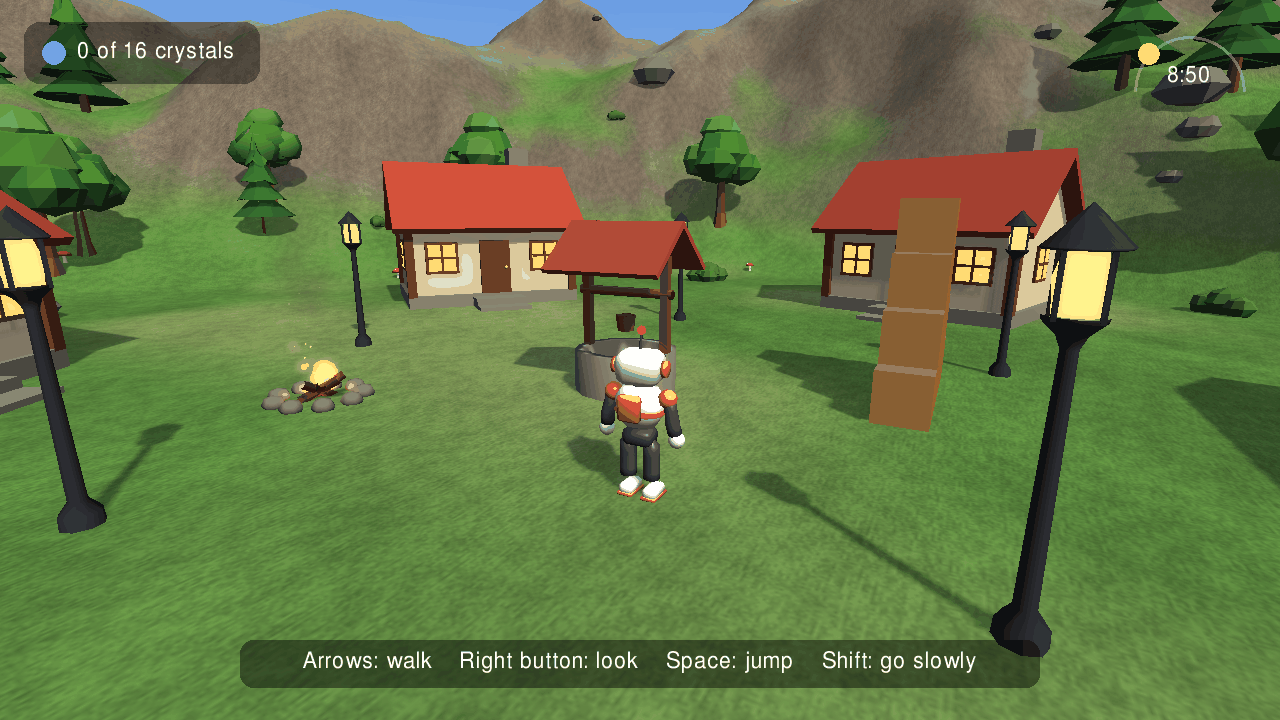
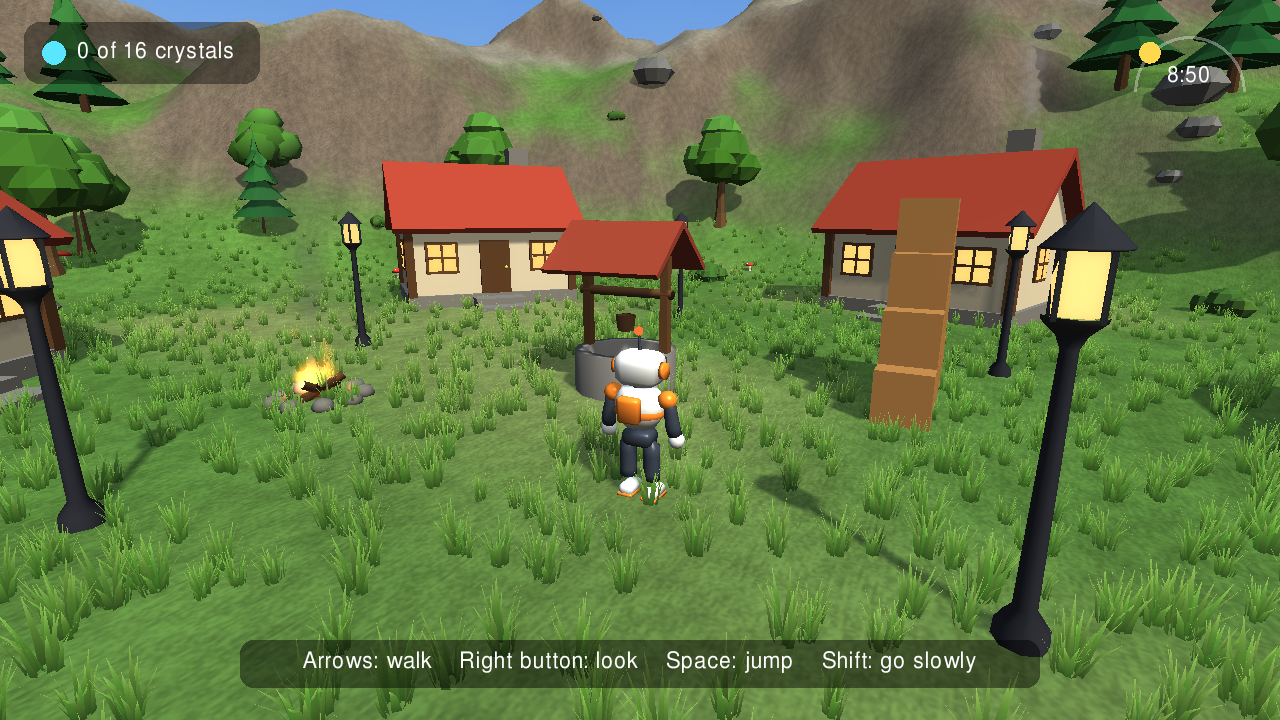
Grass, impostors and sprites

diff --git a/demos.html b/demos.html
@@ -6378,7 +6378,7 @@ summary { cursor: pointer; padding: 10px 16px; } details pre { border-width: 1px
 <section id="3d" data-title="3d"><h2>3D</h2>
 <div data-find="island a world to walk about in, from day to night explore"><h3 id="demo-explore">Island</h3><p>A world to walk about in, from day to night</p>
 <div class="shots"><img loading="lazy" src="screenshots/explore.png" alt="Island"></div>
-<details><summary><code>explore/main.as</code> <span class="tag">428 lines</span></summary><pre><code><span class="c">// A world to walk about in: land, water, trees, houses, a day that passes, and someone to be.</span>
+<details><summary><code>explore/main.as</code> <span class="tag">429 lines</span></summary><pre><code><span class="c">// A world to walk about in: land, water, trees, houses, a day that passes, and someone to be.</span>
 
 <span class="t">Sound</span>@ chime = <span class="t">Assets</span>::sound(<span class="s">&quot;global:sound/coin.wav&quot;</span>);
 <span class="k">int</span> found = <span class="n">0</span>;
@@ -6484,6 +6484,10 @@ summary { cursor: pointer; padding: 10px 16px; } details pre { border-width: 1px
         <span class="t">Space</span>::flatten(<span class="n">0</span>, <span class="n">0</span>, <span class="n">44</span>, <span class="n">3</span>);
         <span class="t">Space</span>::farthest(<span class="n">320</span>);
         <span class="t">Space</span>::shadows(<span class="n">0.65f</span>, <span class="n">32</span>);
+        <span class="c">// Grass near the camera, and far trees as pictures of themselves. Less of both where there is less memory.</span>
+        <span class="k">bool</span> small = <span class="t">App</span>::platform == <span class="s">&quot;Original Xbox&quot;</span>;
+        <span class="t">Space</span>::grass(grass, small ? <span class="n">0.6f</span> : <span class="n">2.5f</span>, small ? <span class="n">16</span> : <span class="n">38</span>);
+        <span class="t">Space</span>::impostors = small ? <span class="n">45</span> : <span class="n">70</span>;
 
         <span class="c">// A village, round a well.</span>
         <span class="k">float</span> y = <span class="t">Space</span>::height(<span class="n">0</span>, <span class="n">0</span>);
@@ -6549,6 +6553,7 @@ summary { cursor: pointer; padding: 10px 16px; } details pre { border-width: 1px
                 <span class="k">bool</span> high = p.y &gt; <span class="n">7</span> + random(-<span class="n">2</span>, <span class="n">2</span>);
                 <span class="t">Entity</span>@ tree = place(trees[high ? <span class="n">0</span> : <span class="n">1</span>], p, random(<span class="n">0</span>, <span class="n">360</span>), random(<span class="n">0.8f</span>, <span class="n">1.5f</span>));
                 tree.sway = <span class="n">0.02f</span>;
+                tree.impostor = <span class="k">true</span>;
                 tree.capsule(<span class="n">0.3f</span>, <span class="n">4</span>, <span class="n">2</span>);
                 tree.colliderAt = <span class="t">Vec3</span>(<span class="n">0</span>, <span class="n">2</span>, <span class="n">0</span>);
                 tree.wall = <span class="k">true</span>;
@@ -6562,10 +6567,6 @@ summary { cursor: pointer; padding: 10px 16px; } details pre { border-width: 1px
                 stone.colliderAt = <span class="t">Vec3</span>(<span class="n">0</span>, <span class="n">0.2f</span>, <span class="n">0</span>);
                 stone.wall = <span class="k">true</span>;
             }
-            <span class="c">// Grass, more of it near the village.</span>
-            <span class="k">for</span> (<span class="k">int</span> g = <span class="n">0</span>; g &lt; <span class="n">3</span>; g++)
-                <span class="k">if</span> (spot(p, <span class="n">0.6f</span>, <span class="n">12</span>, <span class="n">0.8f</span>, <span class="n">6</span>, g == <span class="n">0</span> ? <span class="n">130</span> : <span class="n">45</span>))
-                    place(grass, p, random(<span class="n">0</span>, <span class="n">360</span>), random(<span class="n">0.8f</span>, <span class="n">1.6f</span>)).sway = <span class="n">0.15f</span>;
             <span class="k">if</span> (i % <span class="n">5</span> == <span class="n">0</span> &amp;&amp; spot(p, <span class="n">1</span>, <span class="n">12</span>, <span class="n">0.85f</span>, <span class="n">18</span>))
                 place(mushroom, p, random(<span class="n">0</span>, <span class="n">360</span>), random(<span class="n">0.5f</span>, <span class="n">1.1f</span>));
             <span class="k">if</span> (i % <span class="n">12</span> == <span class="n">0</span> &amp;&amp; spot(p, <span class="n">1</span>, <span class="n">12</span>, <span class="n">0.8f</span>, <span class="n">10</span>))
@@ -7369,7 +7370,7 @@ summary { cursor: pointer; padding: 10px 16px; } details pre { border-width: 1px
 </code></pre></details></div>
 <div data-find="forest two thousand trees: culling and levels of detail forest"><h3 id="demo-forest">Forest</h3><p>Two thousand trees: culling and levels of detail</p>
 <div class="shots"><img loading="lazy" src="screenshots/forest.png" alt="Forest"></div>
-<details><summary><code>forest/main.as</code> <span class="tag">72 lines</span></summary><pre><code><span class="c">// Two thousand trees. What can&#x27;t be seen isn&#x27;t drawn, and what is far away is drawn more simply.</span>
+<details><summary><code>forest/main.as</code> <span class="tag">75 lines</span></summary><pre><code><span class="c">// Two thousand trees. What can&#x27;t be seen isn&#x27;t drawn, and what is far away is drawn more simply.</span>
 
 <span class="k">class</span> <span class="t">ForestScreen</span> : <span class="t">Screen</span>
 {
@@ -7394,6 +7395,7 @@ summary { cursor: pointer; padding: 10px 16px; } details pre { border-width: 1px
             <span class="t">Entity</span>@ e = <span class="t">Space</span>::spawn(<span class="t">Vec3</span>(x, <span class="t">Space</span>::height(x, z), z));
             e.model(random(<span class="n">0</span>, <span class="n">1</span>) &lt; <span class="n">0.65f</span> ? pine : oak);
             e.sway = <span class="n">0.02f</span>;
+            e.impostor = <span class="k">true</span>;
             <span class="k">float</span> size = random(<span class="n">0.8f</span>, <span class="n">1.7f</span>);
             e.size = <span class="t">Vec3</span>(size, size * random(<span class="n">0.9f</span>, <span class="n">1.2f</span>), size);
             e.angles = <span class="t">Vec3</span>(<span class="n">0</span>, random(<span class="n">0</span>, <span class="n">360</span>), <span class="n">0</span>);
@@ -7403,6 +7405,8 @@ summary { cursor: pointer; padding: 10px 16px; } details pre { border-width: 1px
         <span class="t">Space</span>::sun(<span class="t">Vec3</span>(<span class="n">0.6f</span>, <span class="n">0.6f</span>, <span class="n">0.4f</span>), <span class="t">Color</span>(<span class="n">1</span>, <span class="n">0.93f</span>, <span class="n">0.78f</span>));
         <span class="t">Space</span>::farthest(<span class="n">200</span>);
         <span class="t">Space</span>::shadows(<span class="n">0.6f</span>, <span class="n">40</span>);
+        <span class="c">// Far trees are pictures of themselves: the same look, at a small part of the cost.</span>
+        <span class="t">Space</span>::impostors = <span class="n">70</span>;
     }
 
     <span class="k">void</span> update(<span class="k">float</span> dt)
@@ -7919,7 +7923,7 @@ summary { cursor: pointer; padding: 10px 16px; } details pre { border-width: 1px
 </code></pre></details></div>
 <div data-find="scene editor build a place, try it and keep it editor"><h3 id="demo-editor">Scene editor</h3><p>Build a place, try it and keep it</p>
 <div class="shots"><img loading="lazy" src="screenshots/editor.png" alt="Scene editor"></div>
-<details><summary><code>editor/main.as</code> <span class="tag">3159 lines</span></summary><pre><code>#include <span class="s">&quot;global:scene.as&quot;</span>
+<details><summary><code>editor/main.as</code> <span class="tag">3178 lines</span></summary><pre><code>#include <span class="s">&quot;global:scene.as&quot;</span>
 
 <span class="c">// A scene editor, written as any screen is. What it makes is a file that Space::load reads.</span>
 
@@ -8285,6 +8289,8 @@ summary { cursor: pointer; padding: 10px 16px; } details pre { border-width: 1px
             c.height = <span class="n">22</span>;
             c.grow = <span class="n">1</span>;
         }
+        earth.label(<span class="s">&quot;Grass&quot;</span>, <span class="s">&quot;small&quot;</span>);
+        @grassChoice = earth.choice(grassNames, <span class="n">0</span>, <span class="t">WidgetEvent</span>(<span class="k">this</span>.onGrass));
         earth.button(<span class="s">&quot;As it was made&quot;</span>, <span class="t">WidgetEvent</span>(<span class="k">this</span>.onLandFresh));
         earth.paragraph(<span class="s">&quot;Hold on the land to change it.&quot;</span>, <span class="s">&quot;small&quot;</span>);
 
@@ -8724,6 +8730,13 @@ summary { cursor: pointer; padding: 10px 16px; } details pre { border-width: 1px
     }
     <span class="k">void</span> onWay(<span class="t">Widget</span>@ w) { way = (way + <span class="n">1</span>) % <span class="k">int</span>(ways.length()); w.text = ways[<span class="k">uint</span>(way)]; }
     <span class="k">void</span> onAcross(<span class="t">Widget</span>@ w) { across = w.chosen; landText = <span class="s">&quot;&quot;</span>; land(); place(); changed(<span class="s">&quot;across&quot;</span>); }
+    <span class="c">// How thick the grass grows where the land is green.</span>
+    <span class="t">Widget</span>@ grassChoice;
+    <span class="k">array</span>&lt;<span class="k">string</span>&gt; grassNames = { <span class="s">&quot;No grass&quot;</span>, <span class="s">&quot;Some grass&quot;</span>, <span class="s">&quot;Grass&quot;</span>, <span class="s">&quot;Thick grass&quot;</span> };
+    <span class="k">array</span>&lt;<span class="k">float</span>&gt; grassAmounts = { <span class="n">0</span>, <span class="n">1</span>, <span class="n">2.5f</span>, <span class="n">4.5f</span> };
+    <span class="k">int</span> grassAt = <span class="n">0</span>;
+    <span class="k">void</span> onGrass(<span class="t">Widget</span>@ w) { grassAt = w.chosen; made = -<span class="n">1</span>; land(); changed(<span class="s">&quot;grass&quot;</span>); }
+
     <span class="k">void</span> onEdges(<span class="t">Widget</span>@ w) { edges = w.checked; <span class="t">Space</span>::edges = edges; changed(<span class="s">&quot;edges&quot;</span>); }
     <span class="k">void</span> onGround(<span class="t">Widget</span>@ w) { ground = w.chosen; acrossChoice.enabled = ground != <span class="n">3</span>; land(); place(); changed(<span class="s">&quot;ground&quot;</span>); }
     <span class="k">void</span> onLines(<span class="t">Widget</span>@ w) { <span class="t">Space</span>::lines = w.checked; }
@@ -9042,6 +9055,8 @@ summary { cursor: pointer; padding: 10px 16px; } details pre { border-width: 1px
         all.<span class="k">set</span>(<span class="s">&quot;hour&quot;</span>, hour);
         all.<span class="k">set</span>(<span class="s">&quot;across&quot;</span>, across);
         all.<span class="k">set</span>(<span class="s">&quot;edges&quot;</span>, edges);
+        <span class="k">if</span> (grassAt &gt; <span class="n">0</span>)
+            all.<span class="k">set</span>(<span class="s">&quot;grass&quot;</span>, grassAmounts[<span class="k">uint</span>(grassAt)]);
         <span class="k">if</span> (sky.count &gt; <span class="n">0</span>)
             all.<span class="k">set</span>(<span class="s">&quot;sky&quot;</span>, sky);
         <span class="k">if</span> (roads.length() &gt; <span class="n">0</span>)
@@ -9081,6 +9096,11 @@ summary { cursor: pointer; padding: 10px 16px; } details pre { border-width: 1px
         hour = <span class="k">int</span>(clamp(<span class="k">float</span>(all[<span class="s">&quot;hour&quot;</span>].number()), <span class="n">0</span>, <span class="n">2</span>));
         across = <span class="k">int</span>(clamp(<span class="k">float</span>(all[<span class="s">&quot;across&quot;</span>].number(<span class="n">1</span>)), <span class="n">0</span>, <span class="k">float</span>(acrosses.length()) - <span class="n">1</span>));
         edges = all[<span class="s">&quot;edges&quot;</span>].flag(<span class="k">true</span>);
+        grassAt = <span class="n">0</span>;
+        <span class="k">for</span> (<span class="k">uint</span> i = <span class="n">0</span>; i &lt; grassAmounts.length(); i++)
+            <span class="k">if</span> (abs(<span class="k">float</span>(all[<span class="s">&quot;grass&quot;</span>].number()) - grassAmounts[i]) &lt; <span class="n">0.01f</span>)
+                grassAt = <span class="k">int</span>(i);
+        grassChoice.chosen = grassAt;
         <span class="t">Json</span> empty;
         sky.copy(all[<span class="s">&quot;sky&quot;</span>].isNull ? empty : all[<span class="s">&quot;sky&quot;</span>]);
         groundChoice.chosen = ground;
@@ -9839,6 +9859,9 @@ summary { cursor: pointer; padding: 10px 16px; } details pre { border-width: 1px
         <span class="k">float</span> sway = k.name == <span class="s">&quot;oak&quot;</span> || k.name == <span class="s">&quot;pine&quot;</span> ? <span class="n">0.02f</span> : k.name == <span class="s">&quot;bush&quot;</span> ? <span class="n">0.05f</span> : k.name == <span class="s">&quot;grass&quot;</span> ? <span class="n">0.15f</span> : <span class="n">0.0f</span>;
         <span class="k">if</span> (sway &gt; <span class="n">0</span>)
             j.<span class="k">set</span>(<span class="s">&quot;sway&quot;</span>, sway);
+        <span class="c">// Far away, trees are pictures of themselves.</span>
+        <span class="k">if</span> (k.name == <span class="s">&quot;oak&quot;</span> || k.name == <span class="s">&quot;pine&quot;</span>)
+            j.<span class="k">set</span>(<span class="s">&quot;impostor&quot;</span>, <span class="k">true</span>);
         <span class="k">if</span> (k.group == <span class="s">&quot;Roads&quot;</span>)
         {
             <span class="c">// On a grid of 8 metres, the land flat under it; and on from the chosen one, where it is a road too.</span>
@@ -11327,6 +11350,186 @@ summary { cursor: pointer; padding: 10px 16px; } details pre { border-width: 1px
         }
         <span class="k">if</span> (fade &gt; <span class="n">0</span>)
             c.rect(<span class="n">0</span>, <span class="n">0</span>, c.width, <span class="n">720</span>, <span class="t">Color</span>(<span class="n">0</span>, <span class="n">0</span>, <span class="n">0</span>, fade));
+    }
+}
+</code></pre></details></div>
+<div data-find="wisps sprites: pictures that turn to show the side you see them from, in a maze wisps"><h3 id="demo-wisps">Wisps</h3><p>Sprites: pictures that turn to show the side you see them from, in a maze</p>
+<div class="shots"><img loading="lazy" src="screenshots/wisps.png" alt="Wisps"></div>
+<details><summary><code>wisps/main.as</code> <span class="tag">177 lines</span></summary><pre><code><span class="c">// Sprites: each wisp is one picture from a sheet, chosen by which side of it you see and how far its flicker has</span>
+<span class="c">// got. They stand upright and turn to face you, as the characters of old maze games did; the maze is boxes.</span>
+
+<span class="k">class</span> <span class="t">Wisp</span> : <span class="t">Behaviour</span>
+{
+    <span class="k">int</span> cx, cz, tx, tz;       <span class="c">// the square it is in, and the one it is going to</span>
+    <span class="k">float</span> flicker = <span class="n">0</span>;
+    <span class="k">array</span>&lt;<span class="k">string</span>&gt;@ map;
+
+    <span class="k">void</span> start()
+    {
+        flicker = random(<span class="n">0</span>, <span class="n">1</span>);
+        next();
+    }
+
+    <span class="k">bool</span> open(<span class="k">int</span> x, <span class="k">int</span> z) { <span class="k">return</span> z &gt;= <span class="n">0</span> &amp;&amp; z &lt; <span class="k">int</span>(map.length()) &amp;&amp; x &gt;= <span class="n">0</span> &amp;&amp; x &lt; <span class="k">int</span>(map[<span class="k">uint</span>(z)].length()) &amp;&amp; map[<span class="k">uint</span>(z)][<span class="k">uint</span>(x)] != <span class="n">35</span>; }
+
+    <span class="c">// On to an open square beside, not back the way it came unless it has to.</span>
+    <span class="k">void</span> next()
+    {
+        <span class="k">array</span>&lt;<span class="k">int</span>&gt; dx = { <span class="n">1</span>, -<span class="n">1</span>, <span class="n">0</span>, <span class="n">0</span> }, dz = { <span class="n">0</span>, <span class="n">0</span>, <span class="n">1</span>, -<span class="n">1</span> };
+        <span class="k">int</span> backX = cx - (tx - cx), backZ = cz - (tz - cz);
+        <span class="k">array</span>&lt;<span class="k">int</span>&gt; ways;
+        <span class="k">for</span> (<span class="k">int</span> i = <span class="n">0</span>; i &lt; <span class="n">4</span>; i++)
+            <span class="k">if</span> (open(cx + dx[<span class="k">uint</span>(i)], cz + dz[<span class="k">uint</span>(i)]) &amp;&amp; !(cx + dx[<span class="k">uint</span>(i)] == backX &amp;&amp; cz + dz[<span class="k">uint</span>(i)] == backZ))
+                ways.insertLast(i);
+        <span class="k">if</span> (ways.length() == <span class="n">0</span>)
+        {
+            tx = backX;
+            tz = backZ;
+            <span class="k">return</span>;
+        }
+        <span class="k">int</span> w = ways[<span class="k">uint</span>(random(<span class="n">0</span>, <span class="k">float</span>(ways.length()) - <span class="n">0.01f</span>))];
+        tx = cx + dx[<span class="k">uint</span>(w)];
+        tz = cz + dz[<span class="k">uint</span>(w)];
+    }
+
+    <span class="k">void</span> update(<span class="k">float</span> dt)
+    {
+        flicker += dt * <span class="n">5</span>;
+        entity.spriteFrame = <span class="k">uint</span>(flicker) % <span class="n">2</span>;
+        <span class="t">Vec3</span> to = <span class="t">Vec3</span>(tx * <span class="n">4</span>, <span class="n">1</span>, tz * <span class="n">4</span>) - entity.place;
+        to.y = <span class="n">0</span>;
+        <span class="k">float</span> far = to.length();
+        <span class="k">if</span> (far &lt; <span class="n">0.05f</span>)
+        {
+            cx = tx;
+            cz = tz;
+            next();
+            <span class="k">return</span>;
+        }
+        entity.face(to, clamp(dt * <span class="n">6</span>, <span class="n">0</span>, <span class="n">1</span>));
+        entity.place = entity.place + to * (clamp(dt * <span class="n">1.8f</span> / far, <span class="n">0</span>, <span class="n">1</span>));
+        entity.place = <span class="t">Vec3</span>(entity.place.x, <span class="n">0.9f</span> + sin(flicker * <span class="n">0.7f</span>) * <span class="n">0.12f</span>, entity.place.z);
+    }
+}
+
+<span class="k">class</span> <span class="t">WispsScreen</span> : <span class="t">Screen</span>
+{
+    <span class="t">Font</span>@ font = <span class="t">Assets</span>::font(<span class="s">&quot;global:freesans.sfn&quot;</span>, <span class="n">22</span>);
+    <span class="t">Texture</span>@ sheet = <span class="t">Assets</span>::texture(<span class="s">&quot;global:picture/sprite-wisp.png&quot;</span>);
+    <span class="t">Texture</span>@ bricks = <span class="t">Assets</span>::texture(<span class="s">&quot;global:picture/bricks.png&quot;</span>);
+    <span class="t">Texture</span>@ tiles = <span class="t">Assets</span>::texture(<span class="s">&quot;global:picture/tiles.png&quot;</span>);
+    <span class="k">array</span>&lt;<span class="k">string</span>&gt; map = {
+        <span class="s">&quot;###########&quot;</span>,
+        <span class="s">&quot;#....#....#&quot;</span>,
+        <span class="s">&quot;#.##.#.##.#&quot;</span>,
+        <span class="s">&quot;#.#.....#.#&quot;</span>,
+        <span class="s">&quot;#.#.###.#.#&quot;</span>,
+        <span class="s">&quot;#...#.#...#&quot;</span>,
+        <span class="s">&quot;###.#.#.###&quot;</span>,
+        <span class="s">&quot;#.........#&quot;</span>,
+        <span class="s">&quot;#.##.#.##.#&quot;</span>,
+        <span class="s">&quot;#....#....#&quot;</span>,
+        <span class="s">&quot;###########&quot;</span> };
+    <span class="t">Entity</span>@ hero;
+    <span class="k">float</span> yaw = <span class="n">0</span>, pitch = <span class="n">0</span>, shown = <span class="n">0</span>;
+
+    <span class="k">void</span> onEnter()
+    {
+        <span class="t">Space</span>::ground(<span class="n">0</span>);
+        <span class="t">Space</span>::sky(<span class="t">Color</span>(<span class="n">0.02f</span>, <span class="n">0.02f</span>, <span class="n">0.05f</span>), <span class="t">Color</span>(<span class="n">0.05f</span>, <span class="n">0.05f</span>, <span class="n">0.1f</span>));
+        <span class="t">Space</span>::fog(<span class="t">Color</span>(<span class="n">0.03f</span>, <span class="n">0.03f</span>, <span class="n">0.07f</span>), <span class="n">6</span>, <span class="n">34</span>);
+        <span class="t">Space</span>::sun(<span class="t">Vec3</span>(<span class="n">0.3f</span>, <span class="n">1</span>, <span class="n">0.2f</span>), <span class="t">Color</span>(<span class="n">0.15f</span>, <span class="n">0.15f</span>, <span class="n">0.25f</span>));
+        <span class="t">Space</span>::ambient(<span class="t">Color</span>(<span class="n">0.12f</span>, <span class="n">0.12f</span>, <span class="n">0.2f</span>), <span class="t">Color</span>(<span class="n">0.05f</span>, <span class="n">0.05f</span>, <span class="n">0.08f</span>));
+        <span class="t">Space</span>::farthest(<span class="n">40</span>);
+        <span class="k">int</span> wisps = <span class="n">0</span>;
+        <span class="k">for</span> (<span class="k">uint</span> z = <span class="n">0</span>; z &lt; map.length(); z++)
+            <span class="k">for</span> (<span class="k">uint</span> x = <span class="n">0</span>; x &lt; map[z].length(); x++)
+            {
+                <span class="t">Vec3</span> at(<span class="k">float</span>(x) * <span class="n">4</span>, <span class="n">0</span>, <span class="k">float</span>(z) * <span class="n">4</span>);
+                <span class="t">Entity</span>@ floor = <span class="t">Space</span>::spawn(at - <span class="t">Vec3</span>(<span class="n">0</span>, <span class="n">0.1f</span>, <span class="n">0</span>));
+                floor.shape(<span class="t">SolidBox</span>);
+                floor.size = <span class="t">Vec3</span>(<span class="n">4</span>, <span class="n">0.2f</span>, <span class="n">4</span>);
+                floor.skin(tiles);
+                <span class="k">if</span> (map[z][x] == <span class="n">35</span>)
+                {
+                    <span class="t">Entity</span>@ wall = <span class="t">Space</span>::spawn(at + <span class="t">Vec3</span>(<span class="n">0</span>, <span class="n">1.75f</span>, <span class="n">0</span>));
+                    wall.shape(<span class="t">SolidBox</span>);
+                    wall.size = <span class="t">Vec3</span>(<span class="n">4</span>, <span class="n">3.5f</span>, <span class="n">4</span>);
+                    wall.skin(bricks);
+                    wall.cube(<span class="t">Vec3</span>(<span class="n">1</span>, <span class="n">1</span>, <span class="n">1</span>), <span class="n">2</span>);
+                    wall.wall = <span class="k">true</span>;
+                }
+                <span class="k">else</span> <span class="k">if</span> ((x + z * <span class="n">3</span>) % <span class="n">7</span> == <span class="n">0</span> &amp;&amp; wisps &lt; <span class="n">9</span>)
+                {
+                    wisps++;
+                    <span class="t">Entity</span>@ e = <span class="t">Space</span>::spawn(at + <span class="t">Vec3</span>(<span class="n">0</span>, <span class="n">0.9f</span>, <span class="n">0</span>));
+                    e.sprite(sheet, <span class="n">4</span>, <span class="n">2</span>);
+                    e.size = <span class="t">Vec3</span>(<span class="n">1.3f</span>, <span class="n">1.3f</span>, <span class="n">1.3f</span>);
+                    e.glowing = <span class="n">1</span>;
+                    e.light(<span class="t">Color</span>(<span class="n">0.5f</span>, <span class="n">0.7f</span>, <span class="n">1.4f</span>), <span class="n">6</span>);
+                    <span class="t">Wisp</span> w;
+                    w.cx = w.tx = <span class="k">int</span>(x);
+                    w.cz = w.tz = <span class="k">int</span>(z);
+                    @w.map = map;
+                    e.add(w);
+                }
+            }
+        @hero = <span class="t">Space</span>::spawn(<span class="t">Vec3</span>(<span class="n">4</span>, <span class="n">0.1f</span>, <span class="n">4</span>));
+        hero.capsule(<span class="n">0.35f</span>, <span class="n">1.6f</span>, <span class="n">1</span>);
+        hero.colliderAt = <span class="t">Vec3</span>(<span class="n">0</span>, <span class="n">0.8f</span>, <span class="n">0</span>);
+        hero.walker = <span class="k">true</span>;
+        hero.mass = <span class="n">60</span>;
+        yaw = <span class="n">180</span>;
+    }
+
+    <span class="k">void</span> onExit()
+    {
+        <span class="t">Input</span>::lockMouse(<span class="k">false</span>);
+    }
+
+    <span class="k">void</span> update(<span class="k">float</span> dt)
+    {
+        shown += dt;
+        <span class="c">// Look with the mouse, held in the window, or the right stick; walk with the left.</span>
+        <span class="t">Input</span>::lockMouse(<span class="k">true</span>);
+        <span class="t">Vec2</span> turn = <span class="t">Input</span>::mouseMove;
+        <span class="k">if</span> (shown &gt; <span class="n">0.3f</span>)
+        {
+            yaw += turn.x * <span class="n">0.2f</span>;
+            pitch = clamp(pitch - turn.y * <span class="n">0.2f</span>, -<span class="n">60</span>, <span class="n">60</span>);
+        }
+        <span class="t">Vec2</span> pad = <span class="t">Input</span>::padRight(<span class="n">0</span>);
+        yaw += pad.x * <span class="n">120</span> * dt;
+        pitch = clamp(pitch + pad.y * <span class="n">90</span> * dt, -<span class="n">60</span>, <span class="n">60</span>);
+        <span class="t">Vec2</span> stick = <span class="t">Input</span>::move;
+        <span class="k">float</span> a = yaw * <span class="n">0.0174533f</span>;
+        <span class="t">Vec3</span> ahead(sin(a), <span class="n">0</span>, -cos(a)), side(cos(a), <span class="n">0</span>, sin(a));
+        <span class="c">// Left and right turn, as in the old games, unless the mouse is there to look with.</span>
+        <span class="k">if</span> (!<span class="t">Input</span>::hasMouse)
+            yaw += stick.x * <span class="n">110</span> * dt;
+        <span class="t">Vec3</span> wanted = (ahead * -stick.y + (<span class="t">Input</span>::hasMouse ? side * stick.x : <span class="t">Vec3</span>())) * <span class="n">4.5f</span>;
+        <span class="t">Vec3</span> m = hero.motion;
+        m.x += (wanted.x - m.x) * clamp(<span class="n">12</span> * dt, <span class="n">0</span>, <span class="n">1</span>);
+        m.z += (wanted.z - m.z) * clamp(<span class="n">12</span> * dt, <span class="n">0</span>, <span class="n">1</span>);
+        hero.motion = m;
+        <span class="k">float</span> p = pitch * <span class="n">0.0174533f</span>;
+        <span class="t">Vec3</span> eye = hero.place + <span class="t">Vec3</span>(<span class="n">0</span>, <span class="n">1.5f</span>, <span class="n">0</span>);
+        <span class="t">Space</span>::camera(eye, eye + <span class="t">Vec3</span>(sin(a) * cos(p), sin(p), -cos(a) * cos(p)), <span class="n">70</span>);
+    }
+
+    <span class="k">void</span> draw(<span class="t">Canvas</span>@ c)
+    {
+        c.designHeight(<span class="n">720</span>);
+        <span class="t">Space</span>::draw(c);
+        c.bloom(<span class="n">0.6f</span>, <span class="n">0.6f</span>);
+        <span class="k">float</span> help = clamp(<span class="n">6</span> - shown, <span class="n">0</span>, <span class="n">1</span>);
+        <span class="k">if</span> (help &gt; <span class="n">0</span>)
+        {
+            c.alpha = help;
+            c.roundRect(c.width * <span class="n">0.5f</span> - <span class="n">380</span>, <span class="n">640</span>, <span class="n">760</span>, <span class="n">48</span>, <span class="n">14</span>, <span class="t">Color</span>(<span class="n">0</span>, <span class="n">0</span>, <span class="n">0</span>, <span class="n">0.5f</span>));
+            c.text(font, <span class="t">Input</span>::usingPad ? <span class="s">&quot;Left stick: walk    Right stick: look&quot;</span> : <span class="s">&quot;Arrows: walk    Mouse: look&quot;</span>, c.width * <span class="n">0.5f</span>, <span class="n">650</span>, <span class="t">White</span>, <span class="t">AlignCenter</span>);
+            c.alpha = <span class="n">1</span>;
+        }
     }
 }
 </code></pre></details></div>

diff --git a/reference.html b/reference.html
@@ -290,6 +290,9 @@ summary { cursor: pointer; padding: 10px 16px; } details pre { border-width: 1px
 <tr data-find="void glow(float size, const color &amp;in color) looks like a soft ball of light. `light` is what lights other things."><td><code><span class="k">void</span> glow(<span class="k">float</span> size, <span class="k">const</span> <span class="t">Color</span> &amp;<span class="k">in</span> color)</code></td><td>Looks like a soft ball of light. <code>light</code> is what lights other things.</td></tr>
 <tr data-find="void skin(texture@+ texture, bool repeat = false) puts an image on it, instead of any of the model&#x27;s own."><td><code><span class="k">void</span> skin(<span class="t">Texture</span>@+ texture, <span class="k">bool</span> repeat = <span class="k">false</span>)</code></td><td>Puts an image on it, instead of any of the model&#x27;s own.</td></tr>
 <tr data-find="void effect(effect@+ effect) colours it, and may move its corners, with a shader of your own; null for none. where there are no shaders it stays as it is."><td><code><span class="k">void</span> effect(<span class="t">Effect</span>@+ effect)</code></td><td>Colours it, and may move its corners, with a shader of your own; null for none. Where there are no shaders it stays as it is.</td></tr>
+<tr data-find="bool impostor whether, further away than `space::impostors`, it is drawn as a picture of itself. further away than `space::impostors`, drawn as a picture of itself, made from its model: for trees and the like, of which there are many."><td><code><span class="k">bool</span> impostor</code></td><td>Whether, further away than <code>Space::impostors</code>, it is drawn as a picture of itself. Further away than <code>Space::impostors</code>, drawn as a picture of itself, made from its model: for trees and the like, of which there are many.</td></tr>
+<tr data-find="void sprite(texture@+ sheet, uint angles = 1, uint frames = 1) looks like a picture that stands upright and turns to face the camera, as big as its size. across the sheet, how it looks from each side: the first from in front, then going round to its left; down it, the frames. null for none."><td><code><span class="k">void</span> sprite(<span class="t">Texture</span>@+ sheet, <span class="k">uint</span> angles = <span class="n">1</span>, <span class="k">uint</span> frames = <span class="n">1</span>)</code></td><td>Looks like a picture that stands upright and turns to face the camera, as big as its size. Across the sheet, how it looks from each side: the first from in front, then going round to its left; down it, the frames. null for none.</td></tr>
+<tr data-find="uint spriteframe which row of its sprite sheet it shows. which row of its sprite sheet it shows, from 0."><td><code><span class="k">uint</span> spriteFrame</code></td><td>Which row of its sprite sheet it shows. Which row of its sprite sheet it shows, from 0.</td></tr>
 <tr data-find="float sway how far the wind leans it: for each metre of height, at the strongest gust. 0.03 suits a tree, 0.1 grass."><td><code><span class="k">float</span> sway</code></td><td>How far the wind leans it: for each metre of height, at the strongest gust. 0.03 suits a tree, 0.1 grass.</td></tr>
 <tr data-find="float shine how much it shows a highlight from the sun. how much it shows a highlight from the sun, 0 to 1."><td><code><span class="k">float</span> shine</code></td><td>How much it shows a highlight from the sun. How much it shows a highlight from the sun, 0 to 1.</td></tr>
 <tr data-find="float glowing how bright it is by itself. 1 is as bright as its colour, even in the dark."><td><code><span class="k">float</span> glowing</code></td><td>How bright it is by itself. 1 is as bright as its colour, even in the dark.</td></tr>
@@ -341,6 +344,8 @@ summary { cursor: pointer; padding: 10px 16px; } details pre { border-width: 1px
 <tr data-find="void space::ambient(const color &amp;in sky, const color &amp;in ground) light from everywhere: on what faces up, and on what faces down."><td><code><span class="k">void</span> <span class="t">Space</span>::ambient(<span class="k">const</span> <span class="t">Color</span> &amp;<span class="k">in</span> sky, <span class="k">const</span> <span class="t">Color</span> &amp;<span class="k">in</span> ground)</code></td><td>Light from everywhere: on what faces up, and on what faces down.</td></tr>
 <tr data-find="void space::sky(const color &amp;in top, const color &amp;in horizon) draws a sky, with the sun in it. without one, what is on the canvas already is behind."><td><code><span class="k">void</span> <span class="t">Space</span>::sky(<span class="k">const</span> <span class="t">Color</span> &amp;<span class="k">in</span> top, <span class="k">const</span> <span class="t">Color</span> &amp;<span class="k">in</span> horizon)</code></td><td>Draws a sky, with the sun in it. Without one, what is on the canvas already is behind.</td></tr>
 <tr data-find="void space::fog(const color &amp;in color, float start, float end) hides what is far away."><td><code><span class="k">void</span> <span class="t">Space</span>::fog(<span class="k">const</span> <span class="t">Color</span> &amp;<span class="k">in</span> color, <span class="k">float</span> start, <span class="k">float</span> end)</code></td><td>Hides what is far away.</td></tr>
+<tr data-find="void space::grass(model@+ tuft, float persquaremetre = 3, float distance = 30) grows tufts of a model over the land near the camera, where it is green, flat enough and dry, coloured as the land is there; they bend in the wind. null for none."><td><code><span class="k">void</span> <span class="t">Space</span>::grass(<span class="t">Model</span>@+ tuft, <span class="k">float</span> perSquareMetre = <span class="n">3</span>, <span class="k">float</span> distance = <span class="n">30</span>)</code></td><td>Grows tufts of a model over the land near the camera, where it is green, flat enough and dry, coloured as the land is there; they bend in the wind. null for none.</td></tr>
+<tr data-find="float space::impostors how far away things with `impostor` become pictures of themselves; 0 for never."><td><code><span class="k">float</span> <span class="t">Space</span>::impostors</code></td><td>How far away things with <code>impostor</code> become pictures of themselves; 0 for never.</td></tr>
 <tr data-find="vec3 space::wind which way the wind blows, and how hard: 1 is a breeze. things with `sway` lean with it. which way the wind blows, and how hard: 1 is a breeze; nothing still air. things with `sway` lean with it."><td><code><span class="t">Vec3</span> <span class="t">Space</span>::wind</code></td><td>Which way the wind blows, and how hard: 1 is a breeze. Things with <code>sway</code> lean with it. Which way the wind blows, and how hard: 1 is a breeze; nothing still air. Things with <code>sway</code> lean with it.</td></tr>
 <tr data-find="bool space::lines whether only the edges of triangles are drawn. draws only those, to see how things are made."><td><code><span class="k">bool</span> <span class="t">Space</span>::lines</code></td><td>Whether only the edges of triangles are drawn. Draws only those, to see how things are made.</td></tr>
 <tr data-find="void space::shadows(float strength, float distance = 40) how dark they are, 0 to 1, and how far they reach. simple ones are drawn where the gpu can&#x27;t do real ones."><td><code><span class="k">void</span> <span class="t">Space</span>::shadows(<span class="k">float</span> strength, <span class="k">float</span> distance = <span class="n">40</span>)</code></td><td>How dark they are, 0 to 1, and how far they reach. Simple ones are drawn where the GPU can&#x27;t do real ones.</td></tr>

diff --git a/guide.html b/guide.html
@@ -273,6 +273,17 @@ hero.walker = <span class="k">true</span>;</code></pre>
 <p>Plants lean with the wind: give a thing a <code>sway</code>, how far its top moves for each metre of height (about 0.02 for a tree, 0.15 for</p>
 <p><code>global:model/grass.glb</code>), or <code>&quot;sway&quot;</code> in a scene file. <code>Space::wind = Vec3(1, 0, 0.4f)</code> says which way it blows and how hard, and</p>
 <p>gusts roll across a wood as a wave. The base stays where it is, it is only how things are drawn, and it costs the same on every platform. The editor gives trees, bushes and grass their sway when they are added.</p>
+<h3 id="grass-impostors-and-sprites">Grass, impostors and sprites</h3>
+<p><code>Space::grass(Assets::model(&quot;global:model/grass.glb&quot;), 3, 30)</code> grows tufts over the land near the camera, so many to a</p>
+<p>square metre and out to a distance: only where the land is green, flat enough and dry, coloured as the land is there, and bending in the wind. It is made a few squares at a time as you move, and again where the land is changed. A scene file says</p>
+<p><code>&quot;grass&quot;: 2.5</code>, and the editor has it on the Land tab. On the original Xbox, where vertices can&#x27;t be moved, it stands still.</p>
+<p>Things with <code>impostor = true</code> are drawn, further away than <code>Space::impostors</code> metres, as a picture of themselves: made from the model when it is first needed, from four sides, and drawn with all the others that share it at once. A wood of two thousand trees costs about half as many triangles, and looks the same.</p>
+<p>A sprite is a picture that stands upright and turns to face the camera, as the characters of old maze games did:</p>
+<pre><code><span class="t">Entity</span>@ wisp = <span class="t">Space</span>::spawn(place);
+wisp.sprite(<span class="t">Assets</span>::texture(<span class="s">&quot;global:picture/sprite-wisp.png&quot;</span>), <span class="n">4</span>, <span class="n">2</span>);  <span class="c">// four sides across, two frames down</span>
+wisp.size = <span class="t">Vec3</span>(<span class="n">1.3f</span>, <span class="n">1.3f</span>, <span class="n">1.3f</span>);
+wisp.spriteFrame = <span class="k">uint</span>(<span class="t">App</span>::time * <span class="n">5</span>) % <span class="n">2</span>;</code></pre>
+<p>Across the sheet is how it looks from each side, the first from in front and then going round to its left; which one is shown follows from where the camera is and which way it faces. The <b>Wisps</b> showcase is a maze of them.</p>
 <h3 id="files-that-players-bring">Files that players bring</h3>
 <p><code>Assets::list(&quot;own:&quot;)</code> has the names of the player&#x27;s own files, and <code>Assets::dropped()</code> those that were just dropped on the window. They</p>
 <p>are loaded like any others: <code>Assets::model(&quot;own:chair.obj&quot;)</code>.</p>

diff --git a/index.html b/index.html
@@ -59,7 +59,7 @@ summary { cursor: pointer; padding: 10px 16px; } details pre { border-width: 1px
 <div class="cards">
 <a href="guide.html"><b>Guide</b>Your first screen, and how everything fits together</a>
 <a href="reference.html"><b>Script reference</b>Every call, with search</a>
-<a href="demos.html"><b>Demos</b>59 screens, with their scripts</a>
+<a href="demos.html"><b>Demos</b>60 screens, with their scripts</a>
 <a href="https://github.com/Team-Resurgent/NexgenRedux/actions/workflows/engine.yml"><b>Download</b>Builds for each platform</a>
 </div>
 <div class="shots"><figure><img loading="lazy" src="screenshots/explore.png" alt="A world to walk about in"><figcaption>A world to walk about in</figcaption></figure><figure><img loading="lazy" src="screenshots/cases.png" alt="Cover flow"><figcaption>Cover flow</figcaption></figure><figure><img loading="lazy" src="screenshots/skim.png" alt="Skimmer"><figcaption>Skimmer</figcaption></figure><figure><img loading="lazy" src="screenshots/shaders.png" alt="Shaders"><figcaption>Shaders</figcaption></figure><figure><img loading="lazy" src="screenshots/embers.png" alt="Embers"><figcaption>Embers</figcaption></figure><figure><img loading="lazy" src="screenshots/widgets.png" alt="Widgets"><figcaption>Widgets</figcaption></figure><figure><img loading="lazy" src="screenshots/inventory.png" alt="Inventory"><figcaption>Inventory</figcaption></figure><figure><img loading="lazy" src="screenshots/editor.png" alt="Scene editor"><figcaption>Scene editor</figcaption></figure><figure><img loading="lazy" src="screenshots/dashboard.png" alt="Dashboard"><figcaption>Dashboard</figcaption></figure><figure><img loading="lazy" src="screenshots/endless.png" alt="Endless land"><figcaption>Endless land</figcaption></figure><figure><img loading="lazy" src="screenshots/melt.png" alt="Ray marching"><figcaption>Ray marching</figcaption></figure><figure><img loading="lazy" src="screenshots/blades.png" alt="Blades"><figcaption>Blades</figcaption></figure><figure><img loading="lazy" src="screenshots/tumble.png" alt="3D physics"><figcaption>3D physics</figcaption></figure><figure><img loading="lazy" src="screenshots/music.png" alt="Music"><figcaption>Music</figcaption></figure><figure><img loading="lazy" src="screenshots/runes.png" alt="Rune shift"><figcaption>Rune shift</figcaption></figure><figure><img loading="lazy" src="screenshots/shooter.png" alt="Shooter"><figcaption>Shooter</figcaption></figure><figure><img loading="lazy" src="screenshots/platformer.png" alt="Platformer"><figcaption>Platformer</figcaption></figure><figure><img loading="lazy" src="screenshots/cracktro.png" alt="Cracktro"><figcaption>Cracktro</figcaption></figure><figure><img loading="lazy" src="screenshots/xbox-explore.png" alt="On a real original Xbox"><figcaption>On a real original Xbox</figcaption></figure></div></main></div>
